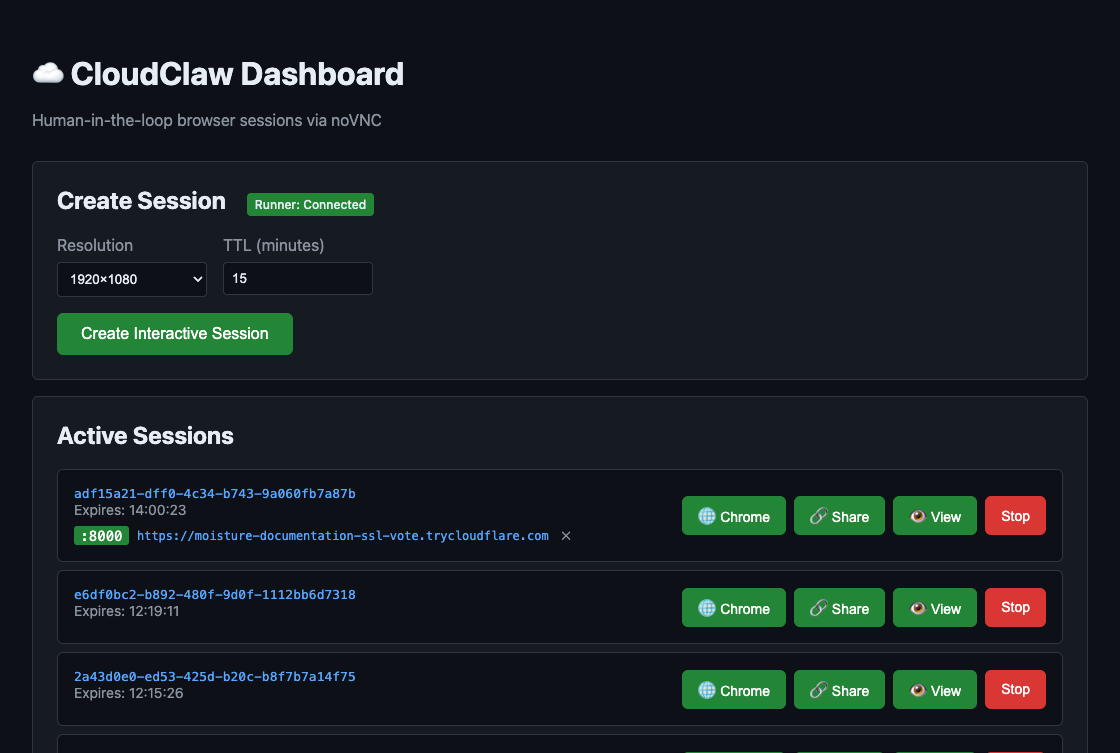
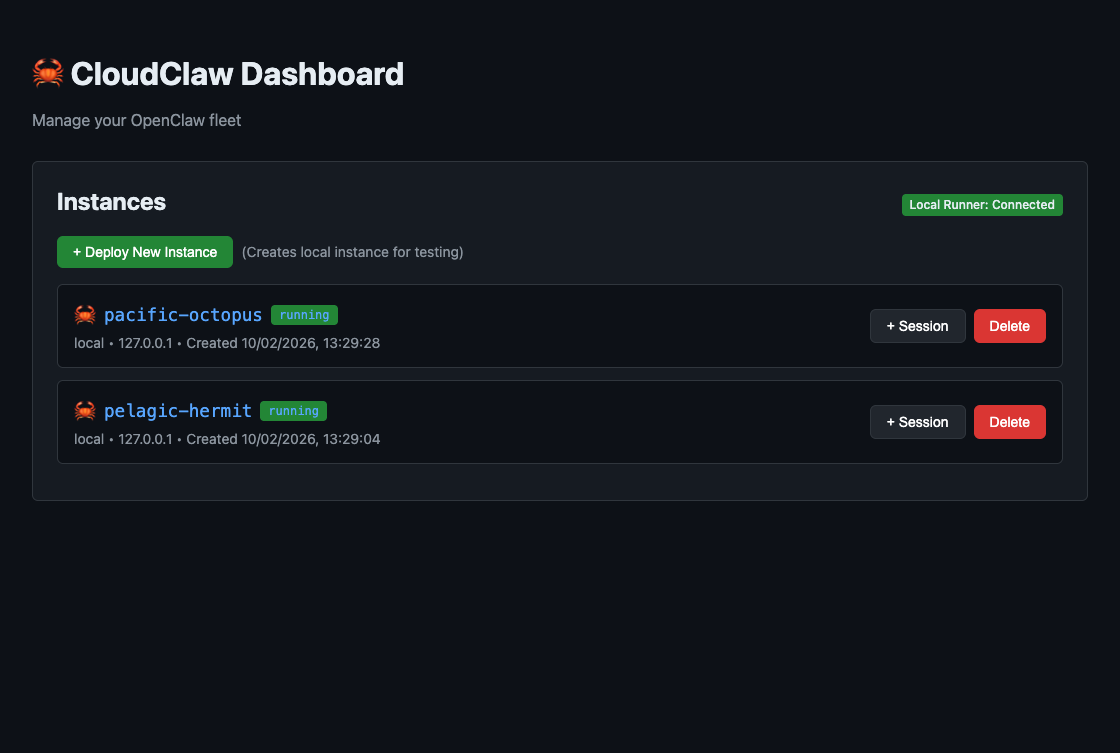
Update README and screenshot for fleet management

diff --git a/README.md b/README.md
@@ -16,7 +16,8 @@ Control Chrome remotely through the browser:
 
 ## Features
 
-- **🖥 Browser Sessions**: Create isolated Chrome sessions with VNC access
+- **🦀 Fleet Management**: Deploy and manage multiple OpenClaw instances with ocean-themed names
+- **🖥 Browser Sessions**: Create isolated Chrome sessions with VNC access per instance
 - **🔗 Instant Sharing**: Share any local port via Cloudflare Quick Tunnels (no account needed)
 - **👁 Live Viewer**: Control the browser in real-time via noVNC
 - **⏱ Auto-Cleanup**: Sessions and tunnels auto-expire after TTL
